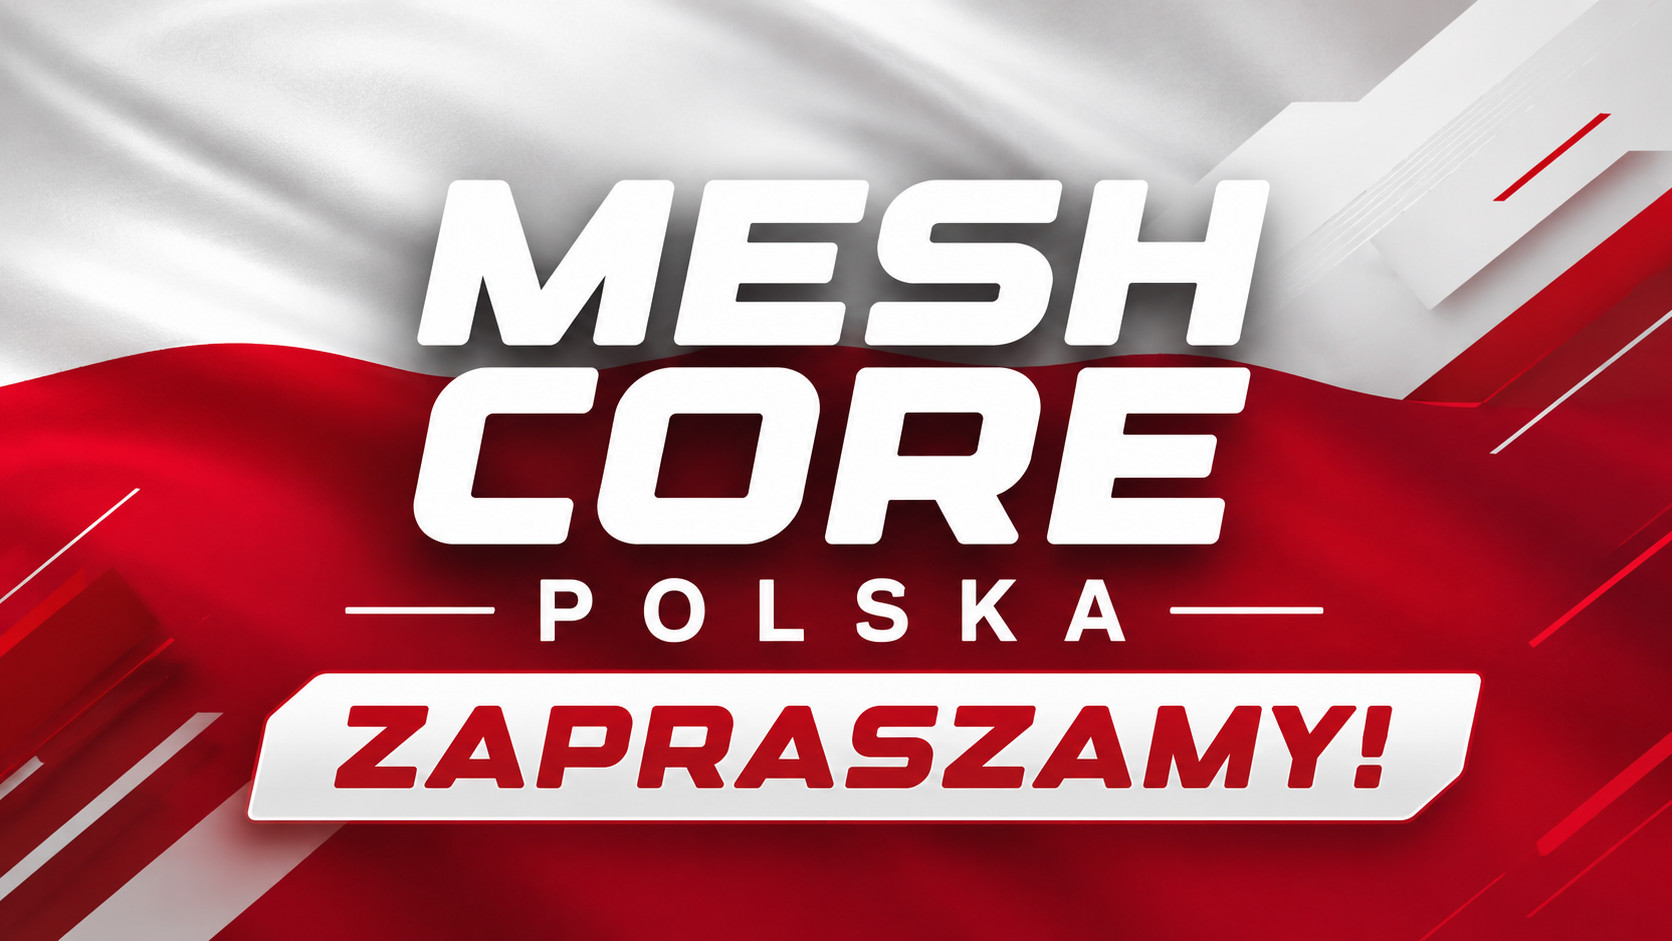
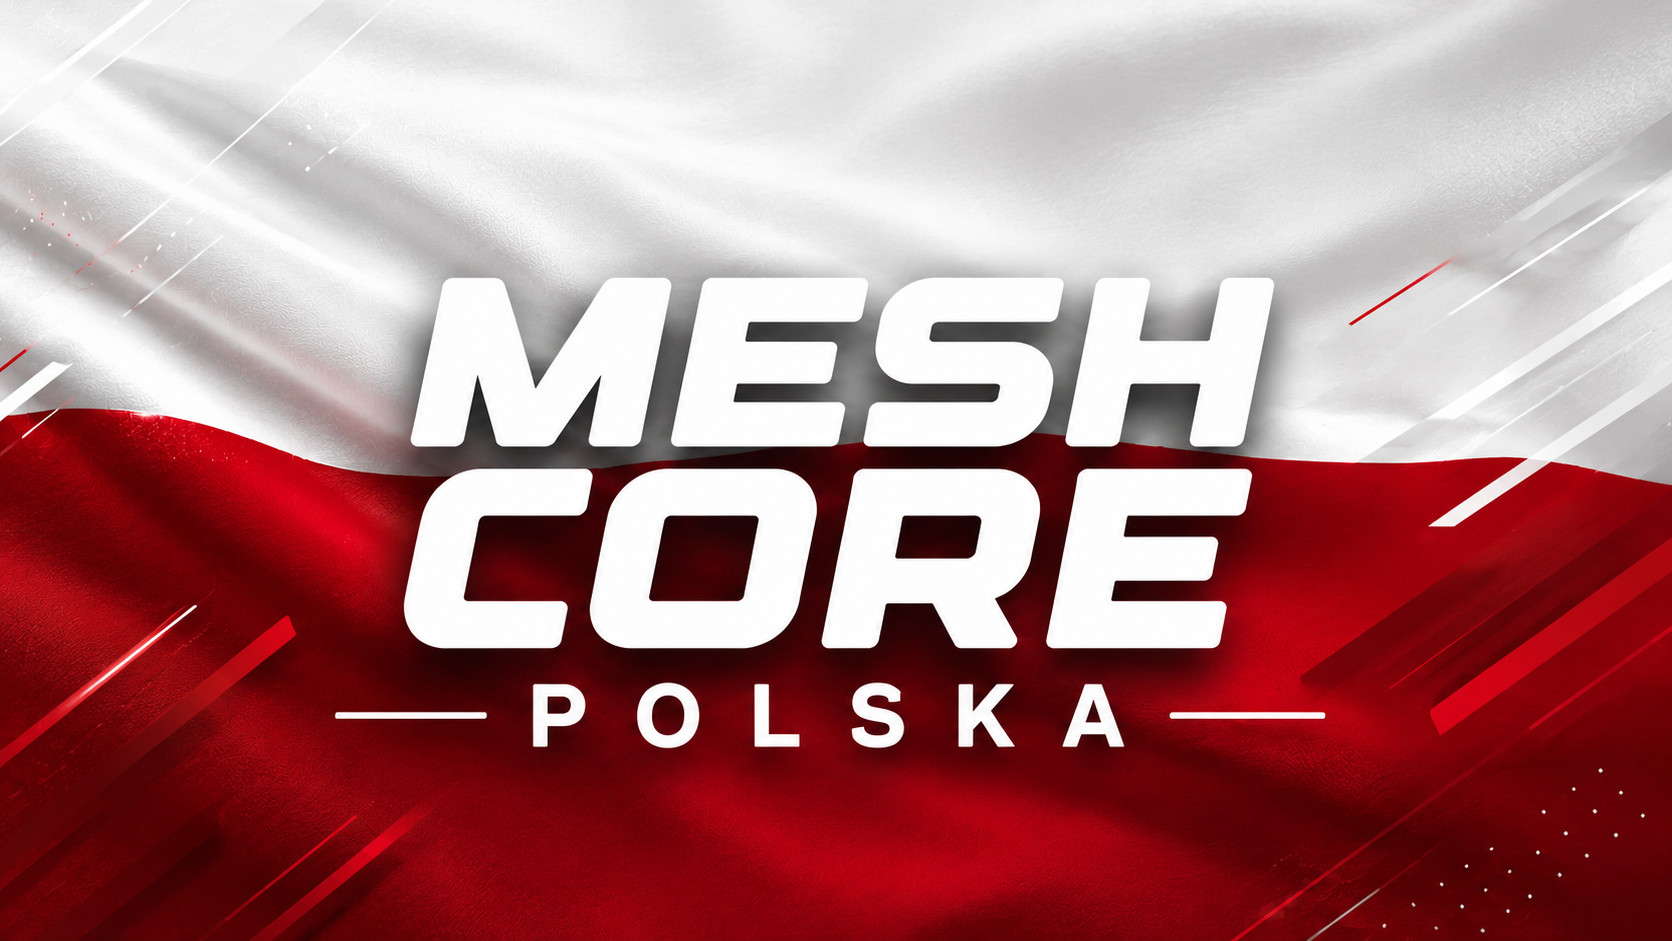
jakieś zmiany

diff --git a/public/js/contact.js b/public/js/contact.js
@@ -1,12 +1,19 @@
 const toastModule = import(`${document.body.dataset.cdn}/js/meshcore/toast.js`).catch(err => {
-	console.error('Toast module failed to load:', err);
+	console.error('Nie udało się załadować modułu powiadomień:', err);
 	return null;
 });
 
 const notify = async (message, type) => {
 	const toast = await toastModule;
-	if (toast) toast.showToast(message, type, { duration: 8000 });
-	else window.alert(message);
+	if (toast) {
+		try {
+			toast.showToast(message, type, { duration: 8000 });
+			return;
+		} catch (err) {
+			console.error('Nie udało się wyświetlić powiadomienia:', err);
+		}
+	}
+	window.alert(message);
 };
 const showErrors = messages => messages.forEach(message => notify(message, 'error'));
 
@@ -29,7 +36,7 @@ const loadTurnstile = () => {
 			clearTimeout(timer);
 			script.remove();
 			turnstileLoader = null;
-			reject(new Error('Turnstile failed to load'));
+			reject(new Error('Nie udało się załadować Turnstile.'));
 		};
 		script.onload = () => {
 			if (!window.turnstile?.render) return script.onerror();
@@ -68,7 +75,7 @@ if (form) {
 				'refresh-timeout': 'manual',
 				callback: resolve,
 				'error-callback': code => {
-					console.error('Turnstile verification failed:', code);
+					console.error('Weryfikacja Turnstile nie powiodła się:', code);
 					fail('Weryfikacja captcha nie powiodła się. Spróbuj wysłać wiadomość ponownie.');
 					return true;
 				},
@@ -76,7 +83,7 @@ if (form) {
 				'timeout-callback': () => fail('Upłynął czas weryfikacji captcha. Spróbuj wysłać wiadomość ponownie.'),
 			});
 		} catch (err) {
-			console.error('Turnstile render failed', err);
+			console.error('Nie udało się wyświetlić widżetu Turnstile:', err);
 			fail('Nie udało się uruchomić captchy. Odśwież stronę i spróbuj ponownie.');
 		}
 	});
@@ -85,7 +92,7 @@ if (form) {
 		try {
 			await loadTurnstile();
 		} catch (err) {
-			console.error('Turnstile load failed:', err);
+			console.error('Nie udało się załadować Turnstile:', err);
 			throw new CaptchaError('Nie udało się załadować captchy. Odśwież stronę i spróbuj ponownie.');
 		}
 
@@ -112,22 +119,22 @@ if (form) {
 			});
 
 			if (!(res.headers.get('content-type') || '').includes('application/json')) {
-				console.error('Unexpected response:', res.status, res.headers.get('content-type'));
-				throw new Error('Expected a JSON response from the contact endpoint');
+				console.error('Nieoczekiwana odpowiedź serwera:', res.status, res.headers.get('content-type'));
+				throw new Error('Odpowiedź API formularza kontaktowego powinna być w formacie JSON.');
 			}
 
 			const data = await res.json();
 
 			if (data.success) {
 				form.reset();
-				notify(data.message, 'success');
+				void notify(data.message, 'success');
 				return;
 			}
 
-			console.error('Message rejected by server:', res.status);
+			console.error('Serwer odrzucił wiadomość:', res.status);
 			showErrors(data.data?.errors ?? [data.message]);
 		} catch (err) {
-			console.error('Submission failed:', err);
+			console.error('Nie udało się wysłać formularza:', err);
 			showErrors([err instanceof CaptchaError ? err.message : 'Nie udało się wysłać wiadomości. Spróbuj ponownie później.']);
 		} finally {
 			clearCaptcha();

diff --git a/public/js/print-image.js b/public/js/print-image.js
@@ -1,0 +1,49 @@
+let printing = false;
+
+document.addEventListener('click', async event => {
+	if (event.defaultPrevented || printing) return;
+
+	const button = event.target.closest('button[data-print-image]');
+	if (!button) return;
+
+	const target = document.getElementById(button.dataset.printImage);
+	const preview = target instanceof HTMLImageElement ? target : target?.querySelector('img');
+	if (!preview) return;
+
+	printing = true;
+	button.disabled = true;
+	const image = new Image();
+	image.className = 'print-image';
+	image.alt = preview.alt;
+	image.src = preview.currentSrc || preview.src;
+	if (button.dataset.printFormat) image.dataset.printFormat = button.dataset.printFormat;
+
+	const cleanup = () => {
+		image.remove();
+		button.disabled = false;
+		printing = false;
+	};
+
+	try {
+		await image.decode();
+		if (!button.isConnected) {
+			cleanup();
+			return;
+		}
+
+		document.body.append(image);
+		window.addEventListener('afterprint', cleanup, { once: true });
+		window.print();
+	} catch {
+		window.removeEventListener('afterprint', cleanup);
+		cleanup();
+		const message = 'Nie udało się przygotować obrazu do wydruku.';
+		try {
+			const { showToast } = await import(`${document.body.dataset.cdn}/js/meshcore/toast.js`);
+			showToast(message, 'error');
+		} catch (err) {
+			console.error('Nie udało się wyświetlić powiadomienia:', err);
+			window.alert(message);
+		}
+	}
+});

diff --git a/public/js/region-generator.js b/public/js/region-generator.js
@@ -188,7 +188,7 @@ const highlightCode = root => {
 	highlighterPromise ??= import(`${document.body.dataset.cdn}/js/codeBlocks.js`);
 	highlighterPromise
 		.then(({ highlightCodeBlocks }) => highlightCodeBlocks(root))
-		.catch(err => console.error('Failed to load codeBlocks.js from the CDN', err));
+		.catch(err => console.error('Nie udało się załadować codeBlocks.js z CDN:', err));
 };
 
 const setCode = (id, text) => {
@@ -412,7 +412,7 @@ const loadSettings = () => {
 			setDefault: settings.setDefault === true,
 		};
 	} catch (err) {
-		console.warn('Failed to read the settings', err);
+		console.warn('Nie udało się odczytać ustawień:', err);
 		return null;
 	}
 };
@@ -427,7 +427,7 @@ const saveSettings = () => {
 			setDefault: document.getElementById('rg-default').checked,
 		}));
 	} catch (err) {
-		console.warn('Failed to save the settings', err);
+		console.warn('Nie udało się zapisać ustawień:', err);
 	}
 };
 

diff --git a/public/js/docs-router.js b/public/js/docs-router.js
@@ -53,7 +53,7 @@ const swapView = async html => {
 		try {
 			api.destroy?.();
 		} catch (err) {
-			console.error('destroy() failed', err);
+			console.error('Błąd w destroy() podczas zamykania widoku:', err);
 		}
 	});
 	activeModules = [];
@@ -117,7 +117,7 @@ const navigate = async (href, { push = true } = {}) => {
 		view.focus({ preventScroll: true });
 	} catch (err) {
 		if (err.name === 'AbortError') return;
-		console.error('Navigation failed, falling back to a full reload', err);
+		console.error('Nie udało się przejść do dokumentu. Nastąpi pełne przeładowanie strony.', err);
 		fallback();
 	} finally {
 		if (controller === ac) controller = null;

diff --git a/public/css/global.css b/public/css/global.css
@@ -800,3 +800,43 @@ a[data-lightbox] {
 		transition: none;
 	}
 }
+
+.print-image {
+	display: none;
+}
+
+@media print {
+	@page print-image {
+		margin: 0;
+	}
+
+	@page print-image-150x100 {
+		size: 150mm 100mm;
+		margin: 0;
+	}
+
+	html:has(> body > .print-image) {
+		scrollbar-gutter: auto;
+	}
+
+	body:has(> .print-image) {
+		background: #fff;
+		page: print-image;
+	}
+
+	body:has(> .print-image[data-print-format="150x100"]) {
+		page: print-image-150x100;
+	}
+
+	body:has(> .print-image) > :not(.print-image) {
+		display: none;
+	}
+
+	.print-image {
+		display: block;
+		width: 100%;
+		height: auto;
+		max-height: 100vh;
+		object-fit: contain;
+	}
+}

diff --git a/public/js/docs.js b/public/js/docs.js
@@ -49,7 +49,7 @@ const init = () => {
 
 	import(`${document.body.dataset.cdn}/js/codeBlocks.js`)
 		.then(({ highlightCodeBlocks }) => highlightCodeBlocks(content))
-		.catch(err => console.error('Failed to load code highlighting', err));
+		.catch(err => console.error('Nie udało się załadować podświetlania składni:', err));
 
 	const targetFor = href => href && href[0] === '#' && href.length > 1
 		? content.querySelector(`#${CSS.escape(decodeURIComponent(href.slice(1)))}`)

diff --git a/public/js/sw-register.js b/public/js/sw-register.js
@@ -3,5 +3,5 @@ if ('serviceWorker' in navigator) {
 		.then(registration => document.addEventListener('visibilitychange', () => {
 			if (document.visibilityState === 'visible') registration.update().catch(() => undefined);
 		}))
-		.catch(err => console.error('Service worker registration failed:', err));
+		.catch(err => console.error('Nie udało się zarejestrować service workera:', err));
 }

diff --git a/public/js/docs-search.js b/public/js/docs-search.js
@@ -7,7 +7,7 @@ const loadIndex = () => {
 	if (!indexPromise) {
 		indexPromise = fetch('/api/v1/dokumentacja/szukaj')
 			.then(res => {
-				if (!res.ok) throw new Error(`HTTP ${res.status}`);
+				if (!res.ok) throw new Error(`Nie udało się pobrać indeksu wyszukiwania (HTTP ${res.status}).`);
 				return res.json();
 			})
 			.catch(() => {

diff --git a/public/css/docs/content.css b/public/css/docs/content.css
@@ -120,3 +120,7 @@
 .docs-toc__list .docs-toc__link--h3 {
 	padding-left: 22px;
 }
+
+.docs-image-actions {
+	text-align: center;
+}

diff --git a/content/docs/spolecznosc/materialy-graficzne.md b/content/docs/spolecznosc/materialy-graficzne.md
@@ -17,25 +17,43 @@ Bez odpowiedniej zgody nie używaj ich w sposób sugerujący, że reprezentujesz
 ![Logo MeshCore Polska](/images/brand/logo-3.jpg)
 
 ## Faviconki
-![Ikonka MCPL](/images/logo/favicon-256x256.png)
+![Ikona MeshCore Polska](/images/logo/favicon-256x256.png)
 
-- [favicon-16x16.png](/images/logo/favicon-16x16.png)
-- [favicon-32x32.png](/images/logo/favicon-32x32.png)
-- [favicon-48x48.png](/images/logo/favicon-48x48.png)
-- [favicon-64x64.png](/images/logo/favicon-64x64.png)
-- [favicon-128x128.png](/images/logo/favicon-128x128.png)
-- [android-chrome-192x192.png](/images/logo/android-chrome-192x192.png)
-- [android-chrome-512x512.png](/images/logo/android-chrome-512x512.png)
-- [apple-touch-icon.png](/images/logo/apple-touch-icon.png)
+**Ikony przeglądarki**
+
+- [Favicon w sześciu rozmiarach od 16 × 16 do 256 × 256 px (ICO)](/favicon.ico)
+- [Favicon 16 × 16 px (PNG)](/images/logo/favicon-16x16.png)
+- [Favicon 32 × 32 px (PNG)](/images/logo/favicon-32x32.png)
+- [Favicon 48 × 48 px (PNG)](/images/logo/favicon-48x48.png)
+- [Favicon 64 × 64 px (PNG)](/images/logo/favicon-64x64.png)
+- [Favicon 128 × 128 px (PNG)](/images/logo/favicon-128x128.png)
+- [Favicon 256 × 256 px (PNG)](/images/logo/favicon-256x256.png)
+
+**Ikony ekranu głównego**
+
+- [Ikona dla iPhone’a i iPada, 180 × 180 px (PNG)](/images/logo/apple-touch-icon.png)
+- [Ikona dla Androida i PWA, 192 × 192 px (PNG)](/images/logo/android-chrome-192x192.png)
+- [Ikona dla Androida i PWA, 512 × 512 px (PNG)](/images/logo/android-chrome-512x512.png)
 
 ## Banery
-![Baner MeshCore Polska](/images/brand/banner-1.jpg)
 ![Baner MeshCore Polska](/images/brand/banner-2.jpg)
+![Baner MeshCore Polska](/images/brand/banner-1.jpg)
+
+- [Baner „Zapraszamy!” w pełnej jakości (PNG)](/images/brand/banner-2.png)
+- [Baner „Zapraszamy!” po kompresji (JPG)](/images/brand/banner-2.jpg)
+- [Baner MeshCore Polska w pełnej jakości (PNG)](/images/brand/banner-1.png)
+- [Baner MeshCore Polska po kompresji (JPG)](/images/brand/banner-1.jpg)
 
 ## Etykieta do paczek
 Wkładka do paczki zachęcająca odbiorcę do poznania MeshCore. Możesz dołączać ją np. do wysyłanych obudów i innych wydruków 3D. Grafika zawiera czerwone akcenty i nadaje się również do druku monochromatycznego na drukarce termicznej.
 
 Format: **150 × 100 mm** w poziomie, **1536 × 1024 px** (około 260 dpi). Drukuj w skali **100%**, bez dopasowywania do strony. [Wyświetl plik graficzny (PNG, 150x100 mm)](/images/brand/meshcore-polska-etykieta-do-paczek-150x100mm-v1.0.png).
 
+<div id="package-label">
+
 ![Etykieta MeshCore Polska do paczek z kodem QR i mapą Polski z ikonami repeaterów](/images/brand/meshcore-polska-etykieta-do-paczek-150x100mm-v1.0.png)
+
+</div>
+
+<p class="docs-image-actions"><button type="button" class="btn btn--primary btn--sm" data-print-image="package-label" data-print-format="150x100">Wydrukuj etykietę</button></p>
 
